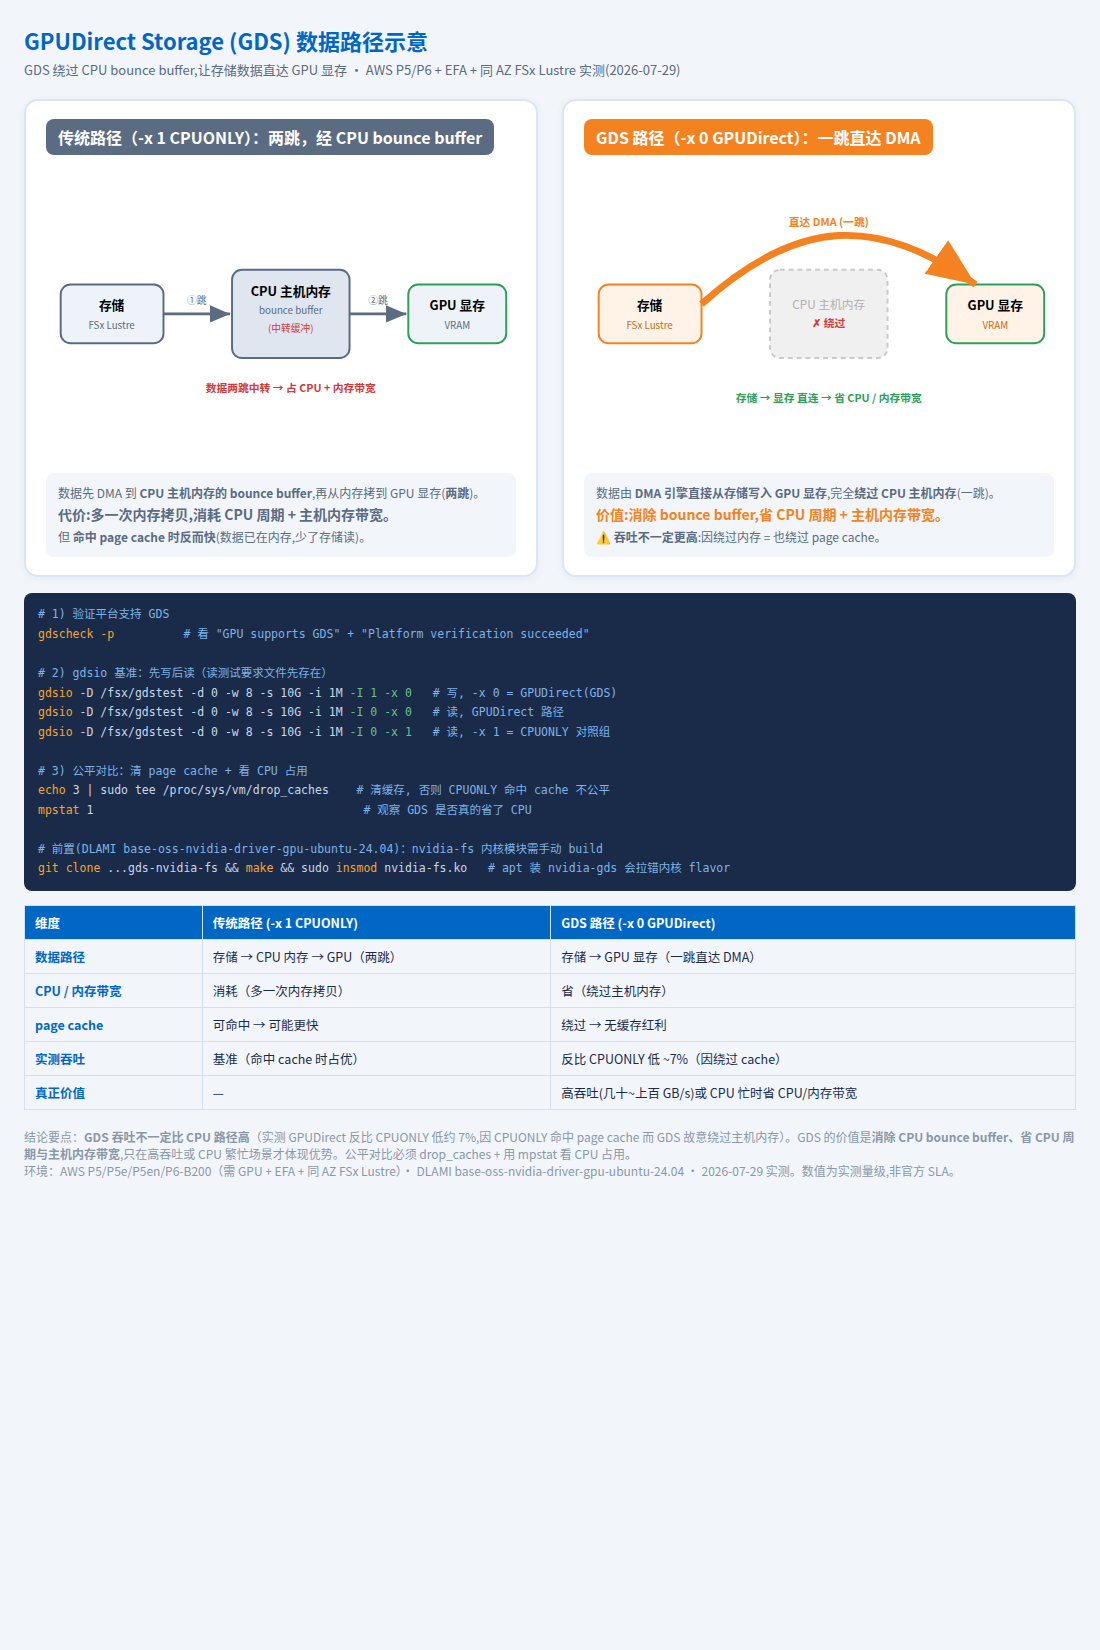
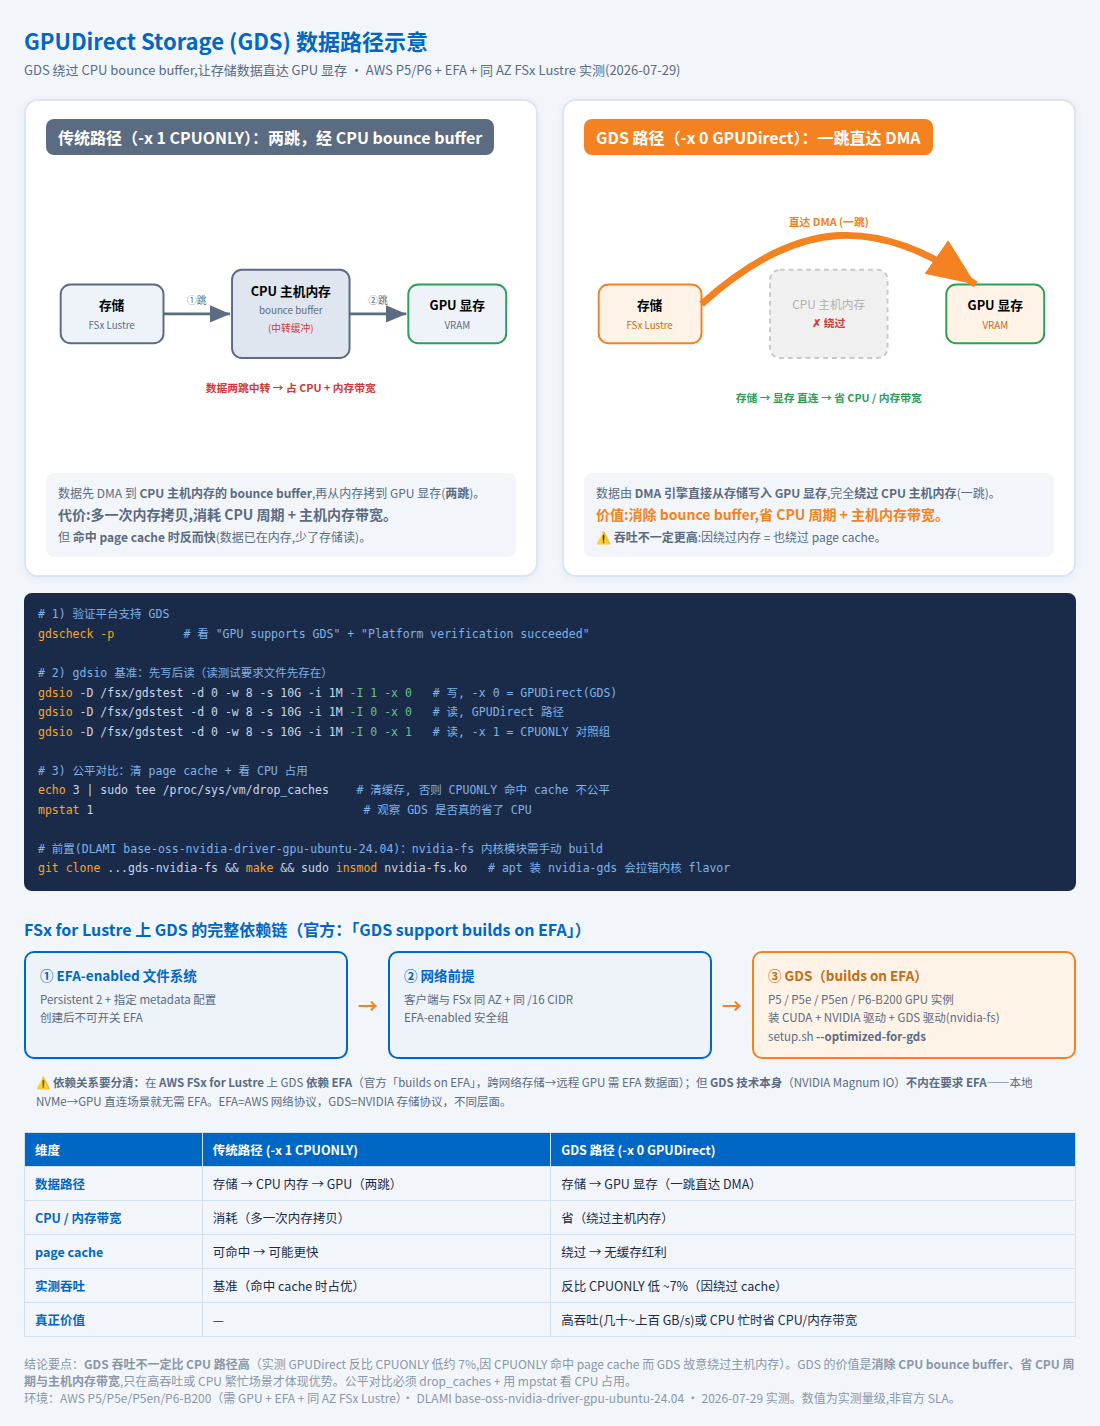
Add FSx Lustre GDS dependency chain (GDS builds on EFA) to diagram

Changed region(s): [[0.0, 0.1543, 0.9891, 0.9874], [0.0309, 0.0, 0.9582, 0.2468], [0.9273, 0.6788, 0.9891, 0.7097]]

diff --git a/gds-gpudirect-storage/gds_datapath.html b/gds-gpudirect-storage/gds_datapath.html
@@ -109,6 +109,27 @@
 <span class="c"># 前置(DLAMI base-oss-nvidia-driver-gpu-ubuntu-24.04)：nvidia-fs 内核模块需手动 build</span>
 <span class="k">git clone</span> ...gds-nvidia-fs && <span class="k">make</span> && sudo <span class="k">insmod</span> nvidia-fs.ko   <span class="c"># apt 装 nvidia-gds 会拉错内核 flavor</span></div>
 
+  <h2 style="font-size:16px;color:#0067C5;margin:26px 0 10px;">FSx for Lustre 上 GDS 的完整依赖链（官方：「GDS support builds on EFA」）</h2>
+  <div style="display:flex;align-items:stretch;gap:10px;flex-wrap:wrap;margin-bottom:6px;">
+    <div style="flex:1;min-width:150px;background:#eef3fa;border:2px solid #0067C5;border-radius:10px;padding:12px 14px;">
+      <div style="font-weight:bold;color:#0067C5;font-size:13.5px;">① EFA-enabled 文件系统</div>
+      <div style="font-size:11.5px;color:#5A6B82;margin-top:5px;line-height:1.6;">Persistent 2 + 指定 metadata 配置<br>创建后不可开关 EFA</div>
+    </div>
+    <div style="display:flex;align-items:center;font-size:20px;color:#F58220;font-weight:bold;">→</div>
+    <div style="flex:1;min-width:150px;background:#eef3fa;border:2px solid #0067C5;border-radius:10px;padding:12px 14px;">
+      <div style="font-weight:bold;color:#0067C5;font-size:13.5px;">② 网络前提</div>
+      <div style="font-size:11.5px;color:#5A6B82;margin-top:5px;line-height:1.6;">客户端与 FSx 同 AZ + 同 /16 CIDR<br>EFA-enabled 安全组</div>
+    </div>
+    <div style="display:flex;align-items:center;font-size:20px;color:#F58220;font-weight:bold;">→</div>
+    <div style="flex:1;min-width:150px;background:#fff3e8;border:2px solid #F58220;border-radius:10px;padding:12px 14px;">
+      <div style="font-weight:bold;color:#c96a10;font-size:13.5px;">③ GDS（builds on EFA）</div>
+      <div style="font-size:11.5px;color:#5A6B82;margin-top:5px;line-height:1.6;">P5 / P5e / P5en / P6-B200 GPU 实例<br>装 CUDA + NVIDIA 驱动 + GDS 驱动(nvidia-fs)<br>setup.sh <b>--optimized-for-gds</b></div>
+    </div>
+  </div>
+  <div style="font-size:11.5px;color:#5A6B82;background:#F2F6FB;border-radius:8px;padding:8px 12px;margin-bottom:6px;line-height:1.6;">
+    <b>⚠ 依赖关系要分清：</b>在 <b>AWS FSx for Lustre</b> 上 GDS <b>依赖 EFA</b>（官方「builds on EFA」，跨网络存储→远程 GPU 需 EFA 数据面）；但 <b>GDS 技术本身</b>（NVIDIA Magnum IO）<b>不内在要求 EFA</b>——本地 NVMe→GPU 直连场景就无需 EFA。EFA=AWS 网络协议，GDS=NVIDIA 存储协议，不同层面。
+  </div>
+
   <table>
     <tr><th>维度</th><th>传统路径 (-x 1 CPUONLY)</th><th>GDS 路径 (-x 0 GPUDirect)</th></tr>
     <tr><td class="key">数据路径</td><td>存储 → CPU 内存 → GPU（两跳）</td><td>存储 → GPU 显存（一跳直达 DMA）</td></tr>
